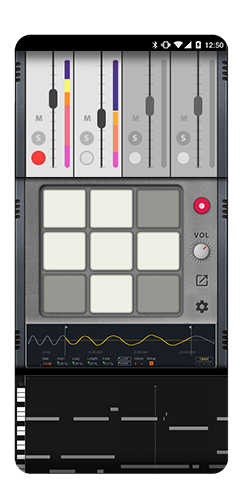
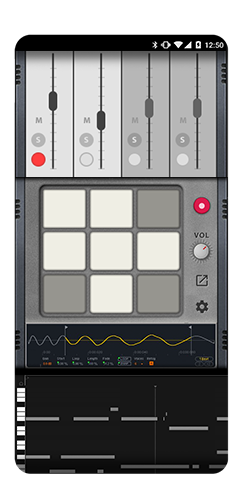
[add] dynamic meter animations

diff --git a/public/css/beets.css b/public/css/beets.css
@@ -115,6 +115,223 @@ header .links a:hover {
     height: 504px;
 }
 
+.meters {
+    position: relative;
+    top: 50px;
+    left: 26px;
+    width: 190px;
+}
+
+.meters .m {
+    background: #969696;
+    border-radius: 5px;
+    width: 5px;
+    height: 100px;
+    display: inline-block;
+    margin-left: 39px;
+    margin-top: 20px;
+    overflow: hidden;
+    position: relative;
+}
+
+.meters .active {
+   background: #503889; 
+}
+
+.meters .l {
+    min-height: 100px;
+    top: 100px;
+    left: 0; right: 0; bottom: 0;
+    position: absolute;
+    transform: translateY(1);
+}
+
+.meters .l1 { 
+    z-index: 4;
+    background: #e35ac3;
+    transform: translateY(-10px);
+}
+.meters .l2 {
+    z-index: 3;
+    background: #f07488;
+    transform: translateY(-20px);
+}
+.meters .l3 {
+    z-index: 2;
+    background: #f99430;
+    transform: translateY(-30px);
+}
+.meters .l4 {
+    z-index: 1;
+    background: #f6f966;
+    transform: translateY(-31px);
+}
+
+/******************************************/
+
+@keyframes m1-l1 {
+  0%   { transform: translateY(-3px); }
+  10%  { transform: translateY(-24px); }
+  20%  { transform: translateY(-2px); }
+  30%  { transform: translateY(-20px); }
+  40%  { transform: translateY(-3px); }
+  50%  { transform: translateY(-50px); }
+  60%  { transform: translateY(-24px); }
+  70%  { transform: translateY(-2px); }
+  80%  { transform: translateY(-34px); }
+  90%  { transform: translateY(-14px); }
+  100% { transform: translateY(-40px); }
+}
+
+@keyframes m1-l2 {
+  0%   { transform: translateY(-10px); }
+  10%  { transform: translateY(-48px); }
+  20%  { transform: translateY(-9px); }
+  30%  { transform: translateY(-43px); }
+  40%  { transform: translateY(-15px); }
+  50%  { transform: translateY(-84px); }
+  60%  { transform: translateY(-46px); }
+  70%  { transform: translateY(-7px); }
+  80%  { transform: translateY(-60px); }
+  90%  { transform: translateY(-28px); }
+  100% { transform: translateY(-93px); }
+}
+
+@keyframes m1-l3 {
+  0%   { transform: translateY(-10px); }
+  10%  { transform: translateY(-44px); }
+  20%  { transform: translateY(-7px); }
+  30%  { transform: translateY(-40px); }
+  40%  { transform: translateY(-13px); }
+  50%  { transform: translateY(-80px); }
+  60%  { transform: translateY(-44px); }
+  70%  { transform: translateY(-4px); }
+  80%  { transform: translateY(-54px); }
+  90%  { transform: translateY(-24px); }
+  100% { transform: translateY(-90px); }
+}
+
+@keyframes m1-l4 {
+  0%   { transform: translateY(-10px); }
+  10%  { transform: translateY(-44px); }
+  20%  { transform: translateY(-7px); }
+  30%  { transform: translateY(-40px); }
+  40%  { transform: translateY(-13px); }
+  50%  { transform: translateY(-80px); }
+  60%  { transform: translateY(-44px); }
+  70%  { transform: translateY(-4px); }
+  80%  { transform: translateY(-84px); }
+  90%  { transform: translateY(-24px); }
+  100% { transform: translateY(-90px); }
+}
+
+/******************************************/
+
+
+@keyframes m2-l1 {
+  0%   { transform: translateY(-3px); }
+  10%  { transform: translateY(-24px); }
+  20%  { transform: translateY(-2px); }
+  30%  { transform: translateY(-20px); }
+  40%  { transform: translateY(-3px); }
+  50%  { transform: translateY(-50px); }
+  60%  { transform: translateY(-24px); }
+  70%  { transform: translateY(-2px); }
+  80%  { transform: translateY(-34px); }
+  90%  { transform: translateY(-14px); }
+  100% { transform: translateY(-40px); }
+}
+
+@keyframes m2-l2 {
+  0%   { transform: translateY(-10px); }
+  10%  { transform: translateY(-48px); }
+  20%  { transform: translateY(-9px); }
+  30%  { transform: translateY(-43px); }
+  40%  { transform: translateY(-15px); }
+  50%  { transform: translateY(-84px); }
+  60%  { transform: translateY(-46px); }
+  70%  { transform: translateY(-7px); }
+  80%  { transform: translateY(-60px); }
+  90%  { transform: translateY(-28px); }
+  100% { transform: translateY(-93px); }
+}
+
+@keyframes m2-l3 {
+  0%   { transform: translateY(-10px); }
+  10%  { transform: translateY(-44px); }
+  20%  { transform: translateY(-7px); }
+  30%  { transform: translateY(-40px); }
+  40%  { transform: translateY(-13px); }
+  50%  { transform: translateY(-80px); }
+  60%  { transform: translateY(-44px); }
+  70%  { transform: translateY(-4px); }
+  80%  { transform: translateY(-54px); }
+  90%  { transform: translateY(-24px); }
+  100% { transform: translateY(-90px); }
+}
+
+@keyframes m2-l4 {
+  0%   { transform: translateY(-10px); }
+  10%  { transform: translateY(-44px); }
+  20%  { transform: translateY(-7px); }
+  30%  { transform: translateY(-40px); }
+  40%  { transform: translateY(-13px); }
+  50%  { transform: translateY(-80px); }
+  60%  { transform: translateY(-44px); }
+  70%  { transform: translateY(-4px); }
+  80%  { transform: translateY(-84px); }
+  90%  { transform: translateY(-24px); }
+  100% { transform: translateY(-90px); }
+}
+
+/******************************************/
+.m1 .l1 {
+    animation: 3s infinite alternate m1-l1;
+}
+
+.m1 .l2 {
+    animation: 3s infinite alternate m1-l2;
+}
+
+.m1 .l3 {
+    animation: 3s infinite alternate m1-l3;
+}
+
+.m1 .l4 {
+    animation: 3s infinite alternate m1-l4;
+}
+
+/******************************************/
+
+.m2 .l1 {
+    /*animation: 3s infinite alternate m2-l1;*/
+    animation-delay: 1.5s;
+    transform: none !important;
+}
+
+.m2 .l2 {
+    /*animation: 3s infinite alternate m2-l2;*/
+    animation-delay: 1.5s;
+    transform: none !important;
+}
+
+.m2 .l3 {
+    /*animation: 3s infinite alternate m2-l3;*/
+    animation-delay: 1.5s;
+    transform: none !important;
+}
+
+.m2 .l4 {
+    /*animation: 3s infinite alternate m2-l4;*/
+    animation-delay: 1.5s;
+    transform: none !important;
+}
+
+/******************************************/
+.m2 .l { translateY(-100px) !important; }
+.m3 {}
+.m4 {}
+
 .splash .phone-backer {
     background: url('/public/img/phone_p24.png') no-repeat center;
 }
@@ -278,6 +495,7 @@ section.devices .mini {
     margin-left: -200px;
     margin-bottom: 45px;
     bottom: 0;
+    box-shadow: 3px 3px 0 rgba(255,255,255,0.8);
 }
 
 section.devices span {

diff --git a/index.html b/index.html
@@ -43,8 +43,27 @@
                 <div class='row'>
                     <div class='col-lg-6 col-md-6 col-sm-6'>
                         <div class='phone-container'>
+                            <div class='phone mobile'>
+                                <div class='meters'>
+                                    <div class='m m1 active'>
+                                        <div class='l l0'></div>
+                                        <div class='l l1'></div>
+                                        <div class='l l2'></div>
+                                        <div class='l l3'></div>
+                                        <div class='l l4'></div>
+                                    </div>
+                                    <div class='m m2 active'>
+                                        <div class='l l0'></div>
+                                        <div class='l l1'></div>
+                                        <div class='l l2'></div>
+                                        <div class='l l3'></div>
+                                        <div class='l l4'></div>
+                                    </div>
+                                    <div class='m m3'></div>
+                                    <div class='m m4'></div>
+                                </div>
+                            </div>
                             <div class='phone phone-backer'></div>
-                            <div class='phone mobile'></div>
 
                             <div class='cabling flip'></div>
                             <div class='keyboard flip'></div>
